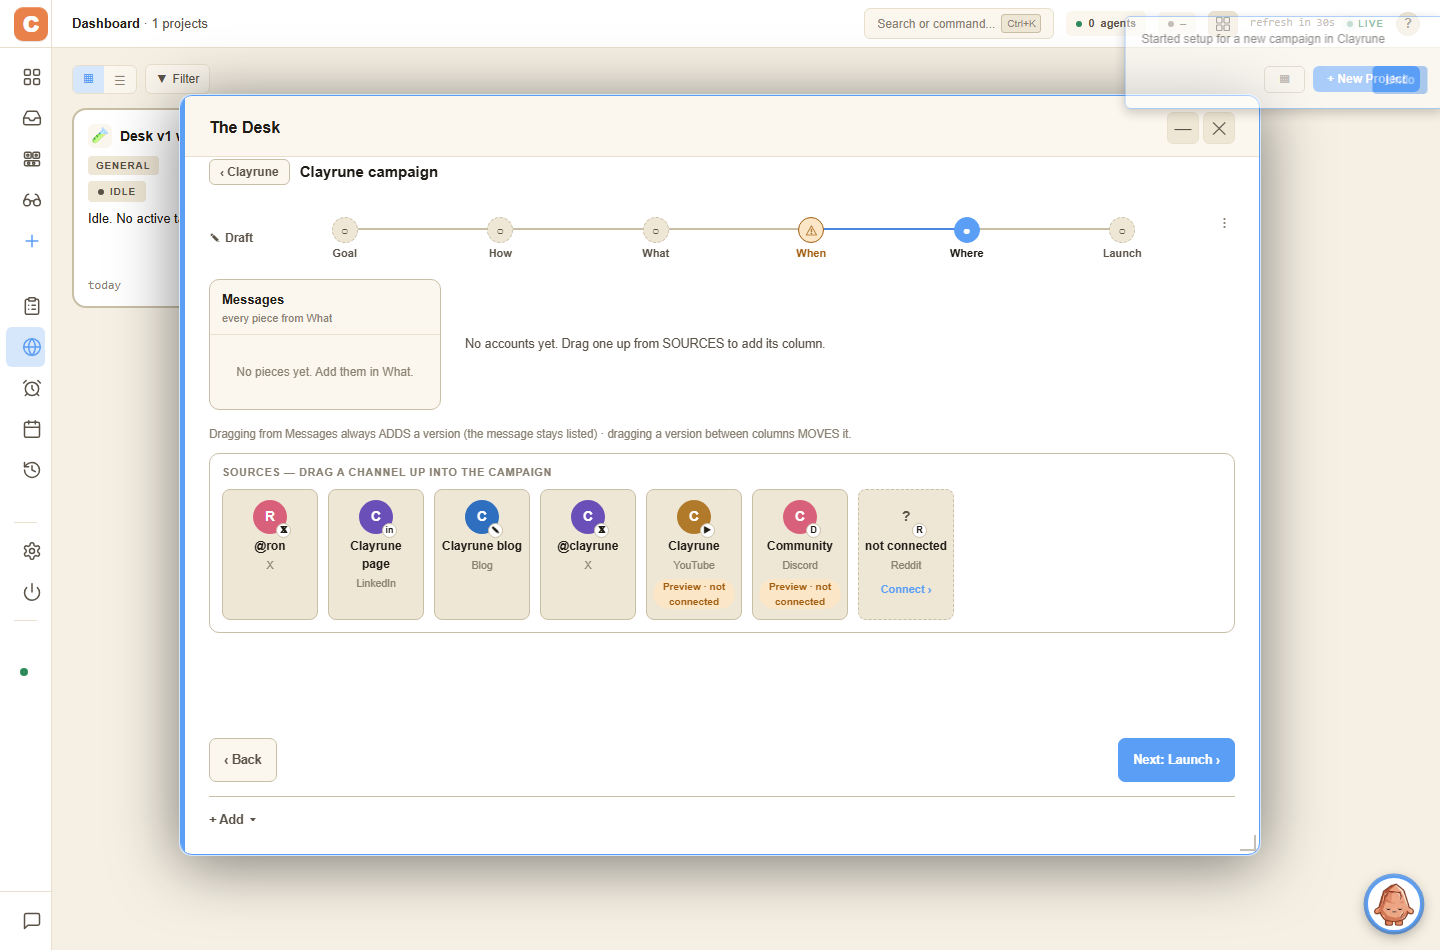
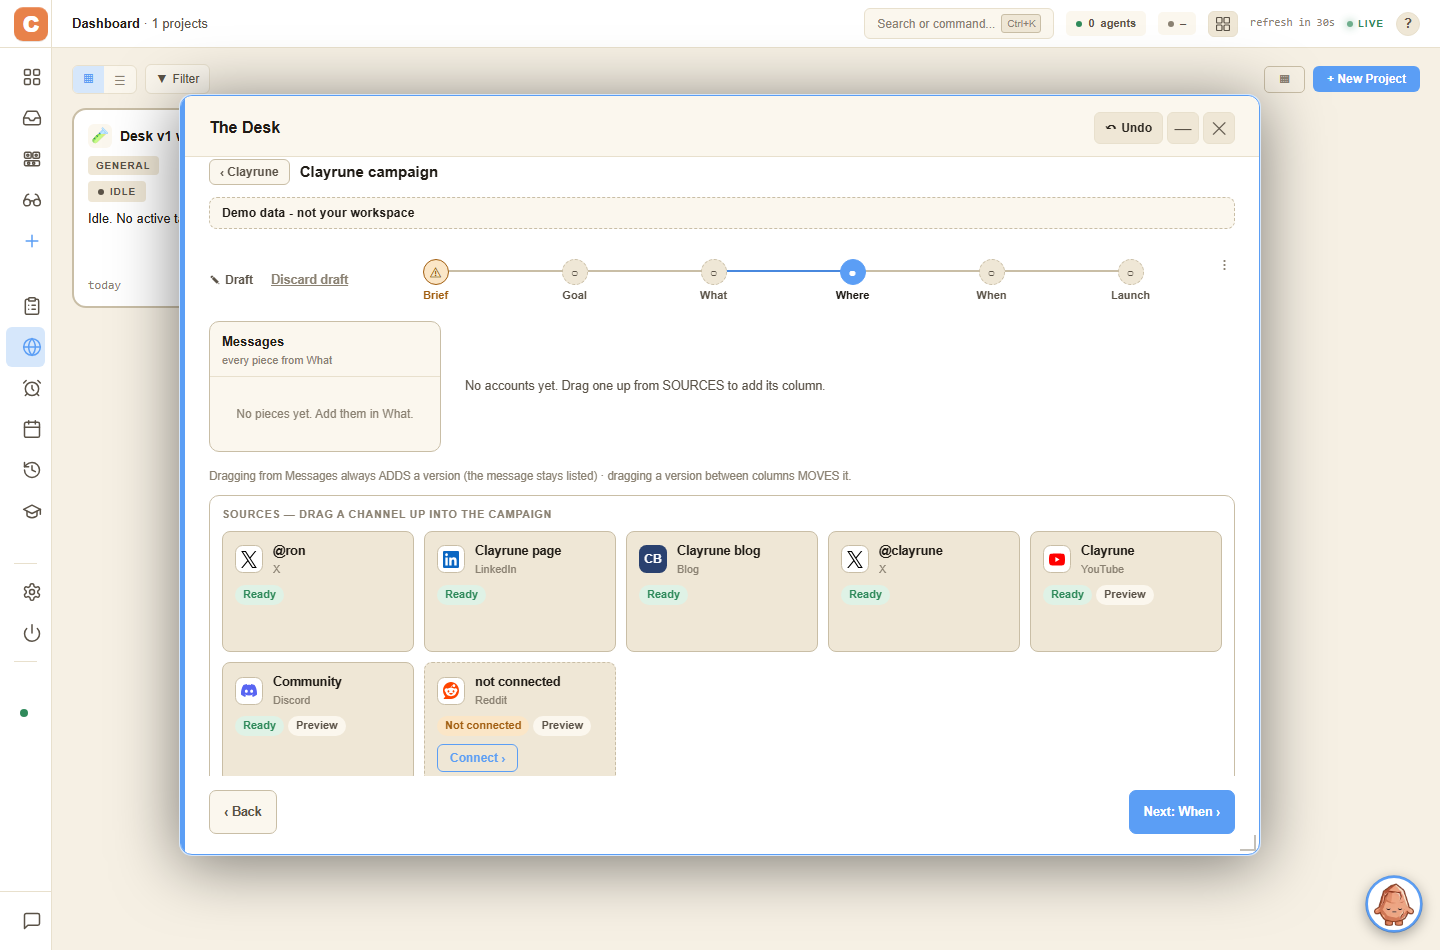
feat(desk): Where tray tiles and column headers wear the vendor marks
Equal-size source tiles in one grid (mark + name, status chip, clamped reason,
Connect pinned to one baseline); long handles and reasons ellipsise with the
full text on title. Tile renderer split into desk-v1-where-tiles.js; the letter
avatar and unicode glyph badge are gone.

diff --git a/static/js/desk-v1-where.js b/static/js/desk-v1-where.js
@@ -63,14 +63,16 @@
   function _restorable(state) { return _M18_STATES.has(state) ? state : 'needs_review'; }
 
   const PLATFORMS = {
-    x: { word: 'X', glyph: '𝕏' },
-    linkedin: { word: 'LinkedIn', glyph: 'in' },
-    youtube: { word: 'YouTube', glyph: '▶' },
-    discord: { word: 'Discord', glyph: 'D' },
-    reddit: { word: 'Reddit', glyph: 'R' },
-    blog: { word: 'Blog', glyph: '✎' },
+    x: { word: 'X' },
+    linkedin: { word: 'LinkedIn' },
+    youtube: { word: 'YouTube' },
+    discord: { word: 'Discord' },
+    reddit: { word: 'Reddit' },
+    blog: { word: 'Blog' },
+    instagram: { word: 'Instagram' },
+    tiktok: { word: 'TikTok' },
   };
-  function _platform(ch) { return (ch && PLATFORMS[ch.platform]) || { word: (ch && ch.platform) || '', glyph: '•' }; }
+  function _platform(ch) { return (ch && PLATFORMS[ch.platform]) || { word: (ch && ch.platform) || '' }; }
 
   // `<kind> → <platform format>` on a version card (frame 7b).
   const FORMATS = {
@@ -85,21 +87,9 @@
     return (byKind && ch && byKind[ch.platform]) || `${_platform(ch).word} post`.trim();
   }
 
-  // Avatar: first letter of the handle on a colour picked from a stable hash
-  // of the channel id, so one account keeps its colour across every surface.
-  const AVATAR_COLORS = ['#5b6ee1', '#d9607a', '#2f6fbf', '#c4503a', '#6b4fb8', '#3a9d8a', '#b07a2a'];
-  function _avatarColor(id) {
-    let h = 0;
-    for (let i = 0; i < String(id).length; i++) h = (h * 31 + String(id).charCodeAt(i)) >>> 0;
-    return AVATAR_COLORS[h % AVATAR_COLORS.length];
-  }
-  function _avatarHTML(ch) {
-    const m = String((ch && ch.identity) || '?').match(/[A-Za-z0-9]/);
-    const plat = _platform(ch);
-    return `<span class="desk-v1-where-avatar" style="background:${_avatarColor(ch ? ch.id : '')}" aria-hidden="true">` +
-      `<span class="desk-v1-where-avatar-letter">${esc((m ? m[0] : '?').toUpperCase())}</span>` +
-      `<span class="desk-v1-where-avatar-badge" data-platform="${esc(ch ? ch.platform : '')}">${esc(plat.glyph)}</span></span>`;
-  }
+  // The mark an account wears (column header and SOURCES tile alike) is the
+  // vendor logo from desk-v1-service-icons.js, built in desk-v1-where-tiles.js.
+  function _markHTML(ch) { return window.DeskV1WhereTiles.markHTML(ch); }
 
   // A version counts on the board while it is live and sits on a channel.
   function _isLive(v) { return !!v.channelId && v.state !== 'archived' && v.state !== 'skipped'; }
@@ -394,9 +384,9 @@
       : `<div class="desk-v1-where-colempty" data-where-colempty>Drag a message here to add its ${esc(plat.word)} version.</div>`;
     return `<section class="desk-v1-where-col pd-drop-zone" data-channel-id="${esc(ch.id)}" data-platform="${esc(ch.platform)}" aria-label="${esc(`${ch.identity} on ${plat.word}`)}">
       <header class="desk-v1-where-colhead">
-        ${_avatarHTML(ch)}
+        ${_markHTML(ch)}
         <div class="desk-v1-where-colname">
-          <div class="desk-v1-where-handle">${esc(ch.identity)}</div>
+          <div class="desk-v1-where-handle" title="${esc(ch.identity)}">${esc(ch.identity)}</div>
           <div class="desk-v1-where-plat">${esc(plat.word)}</div>
           ${_previewTag(ch)}
         </div>
@@ -407,44 +397,10 @@
     </section>`;
   }
 
-  function _sourceHTML(camp, ch) {
-    const plat = _platform(ch);
-    const used = (camp.plan.accounts || []).includes(ch.id);
-    return `<div class="desk-v1-where-source${used ? ' is-used' : ''}" role="button" tabindex="0" data-where-source data-channel-id="${esc(ch.id)}" data-platform="${esc(ch.platform)}"
-         aria-label="${esc(`${ch.identity} on ${plat.word}${used ? ', already on this campaign' : '. Press Enter to add its column'}`)}">
-      ${_avatarHTML(ch)}
-      <div class="desk-v1-where-source-handle">${esc(ch.identity)}</div>
-      <div class="desk-v1-where-source-plat">${esc(plat.word)}</div>
-      ${_previewTag(ch)}
-    </div>`;
-  }
-
-  // A live account carries `publish` (R1-W S5): the tile names the account and
-  // says why it cannot be used, the reason the server computed (no token in the
-  // vault, LinkedIn app review pending). A demo tile has neither and stays as it was.
-  function _offSourceHTML(ch) {
-    const plat = _platform(ch);
-    const pub = ch.publish || null;
-    return `<div class="desk-v1-where-source desk-v1-where-source-off" data-where-source-off data-channel-id="${esc(ch.id)}" data-platform="${esc(ch.platform)}"${pub && pub.reason ? ` title="${esc(pub.reason)}"` : ''}>
-      <span class="desk-v1-where-avatar desk-v1-where-avatar-off" aria-hidden="true"><span class="desk-v1-where-avatar-letter">?</span><span class="desk-v1-where-avatar-badge" data-platform="${esc(ch.platform)}">${esc(plat.glyph)}</span></span>
-      <div class="desk-v1-where-source-handle">${pub ? esc(ch.identity) : 'not connected'}</div>
-      <div class="desk-v1-where-source-plat">${esc(plat.word)}</div>
-      ${pub ? `<div class="desk-v1-where-source-reason" data-where-reason>Not connected${pub.reason ? `: ${esc(pub.reason)}` : ''}</div>` : ''}
-      <button type="button" class="desk-v1-where-connect" data-where-connect>Connect ›</button>
-    </div>`;
-  }
-
-  // A read-only account: same card shape as an off source, worded as Connections words it
-  // ("Read only"), with no Connect button and no drag handle: it is not a place to post.
-  function _readOnlySourceHTML(ch) {
-    const plat = _platform(ch);
-    return `<div class="desk-v1-where-source desk-v1-where-source-off" data-where-source-readonly data-channel-id="${esc(ch.id)}" data-platform="${esc(ch.platform)}" title="The Desk reads this account and does not publish there">
-      <span class="desk-v1-where-avatar desk-v1-where-avatar-off" aria-hidden="true"><span class="desk-v1-where-avatar-letter">?</span><span class="desk-v1-where-avatar-badge" data-platform="${esc(ch.platform)}">${esc(plat.glyph)}</span></span>
-      <div class="desk-v1-where-source-handle">${esc(ch.identity)}</div>
-      <div class="desk-v1-where-source-plat">${esc(plat.word)}</div>
-      <div class="desk-v1-where-source-reason" data-where-readonly>Read only</div>
-    </div>`;
-  }
+  // The three tile shapes live in desk-v1-where-tiles.js.
+  function _sourceHTML(camp, ch) { return window.DeskV1WhereTiles.sourceHTML(ch, _platform(ch), (camp.plan.accounts || []).includes(ch.id)); }
+  function _offSourceHTML(ch) { return window.DeskV1WhereTiles.offHTML(ch, _platform(ch)); }
+  function _readOnlySourceHTML(ch) { return window.DeskV1WhereTiles.readOnlyHTML(ch, _platform(ch)); }
 
   // R2-6's Suggest task can leave `how.suggested.where = {channelId, label}`:
   // shown here as a `? suggested` strip (the agent proposes, the user accepts —

diff --git a/static/css/desk-v1-where.css b/static/css/desk-v1-where.css
@@ -59,18 +59,6 @@
 .desk-v1-where-vtitle { font-size: 12.5px; font-weight: 700; color: var(--text); }
 .desk-v1-where-vformat { font-size: 11.5px; color: var(--text-dim); }
 
-/* account avatar + platform badge — a letter on a hashed colour, so the colour
-   is decoration and the handle beside it is what identifies the account. */
-.desk-v1-where-avatar {
-  position: relative; flex: 0 0 auto; display: inline-flex; align-items: center; justify-content: center;
-  width: 34px; height: 34px; border-radius: 50%; color: #fff; font-size: 14px; font-weight: 700;
-}
-.desk-v1-where-avatar-off { background: var(--surface3); color: var(--text-dim); }
-.desk-v1-where-avatar-badge {
-  position: absolute; right: -4px; bottom: -4px; min-width: 15px; height: 15px; padding: 0 2px;
-  border-radius: 8px; background: var(--surface); border: 1px solid var(--border2);
-  color: var(--text); font-size: 9px; font-weight: 700; line-height: 13px; text-align: center; box-sizing: border-box;
-}
 .desk-v1-where-preview {
   display: inline-block; margin-top: 2px; font-size: 10px; font-weight: 600; color: var(--amber-text);
   background: var(--amber-dim); border-radius: 999px; padding: 0 7px;
@@ -81,21 +69,6 @@
 .desk-v1-where-sources-title {
   font-size: 11px; font-weight: 700; letter-spacing: 0.05em; text-transform: uppercase; color: var(--text-faint); margin-bottom: 8px;
 }
-.desk-v1-where-sources-row { display: flex; flex-wrap: wrap; gap: 10px; }
-.desk-v1-where-source {
-  width: 96px; padding: 10px 6px; display: flex; flex-direction: column; align-items: center; gap: 3px; text-align: center;
-}
-.desk-v1-where-source.is-used { opacity: 0.55; }
-.desk-v1-where-source-off { cursor: default; border-style: dashed; }
-.desk-v1-where-source-handle { font-size: 12px; font-weight: 700; color: var(--text); word-break: break-word; }
-.desk-v1-where-source-plat { font-size: 10.5px; color: var(--text-faint); }
-.desk-v1-where-source-reason { font-size: 10.5px; line-height: 1.3; color: var(--amber-text); }
-.desk-v1-where-connect {
-  background: none; border: none; color: var(--accent); font-size: 11px; font-weight: 600; cursor: pointer;
-  font-family: inherit; padding: 4px 2px; min-height: 24px;
-}
-.desk-v1-where-connect:hover { text-decoration: underline; }
-
 .desk-v1-where-notice {
   background: var(--amber-dim); border: 1px solid var(--amber-text); border-radius: 8px;
   color: var(--amber-text); font-size: 12.5px; font-weight: 600; padding: 8px 12px;
@@ -113,8 +86,6 @@
      frame). Every card is already a 44px-tall target; the small controls get
      a full tap size here. */
   .desk-v1-where-colremove { width: 44px; height: 44px; font-size: 14px; }
-  .desk-v1-where-connect { min-height: 44px; }
-  .desk-v1-where-source { min-height: 44px; }
 }
 /* MC-977 mobile batch 2 (884 decision): the stacked board + compact tiles are
    for PHONE widths (<700px). From 700px (Fold inner screen, tablets) Where
@@ -138,35 +109,7 @@
   .desk-v1-where-board { flex-direction: column; align-items: stretch; overflow-x: visible; gap: 10px; }
   .desk-v1-where-msgs, .desk-v1-where-col { flex: 0 0 auto; width: auto; position: static; }
   .desk-v1-where-msglist { max-height: clamp(140px, 24vh, 220px); }
-
-  /* WH-2: the SOURCES palette was 7 tiles of 92x114-161 (2 per row) with 31 text
-     elements at 9-10.5px. Now two compact 44px+ rows-of-two: avatar left, handle
-     and platform stacked beside it, every label >= 11px. */
-  .desk-v1-where-sources-row { display: grid; grid-template-columns: repeat(2, minmax(0, 1fr)); gap: 8px; }
-  .desk-v1-where-source {
-    width: auto; min-width: 0; padding: 8px 10px;
-    display: grid; grid-template-columns: auto minmax(0, 1fr); column-gap: 8px; row-gap: 0;
-    align-items: center; text-align: left;
-  }
-  .desk-v1-where-source > .desk-v1-where-avatar { grid-row: 1 / span 2; }
-  .desk-v1-where-source-handle { font-size: 12px; overflow: hidden; text-overflow: ellipsis; white-space: nowrap; word-break: normal; }
-  .desk-v1-where-source > .desk-v1-where-preview,
-  .desk-v1-where-source > .desk-v1-where-connect { grid-column: 1 / -1; justify-self: start; }
-  .desk-v1-where-msg-kind, .desk-v1-where-pill, .desk-v1-where-source-plat, .desk-v1-where-plat, .desk-v1-where-preview { font-size: 11px; }
-  .desk-v1-where-avatar-badge { font-size: 10px; min-width: 16px; height: 16px; line-height: 14px; }
-  /* WH-3: the "Preview · not connected" pill wrapped to 2-3 lines inside a source
-     tile. One line, short form ("Preview") inside the tile; the full text stays on
-     its title and wherever the pill sits on its own (What's create head). */
-  .desk-v1-where-source .desk-v1-where-preview { white-space: nowrap; font-size: 0; padding: 0; }
-  .desk-v1-where-source .desk-v1-where-preview::after {
-    content: attr(data-short); font-size: 11px; display: inline-block; padding: 0 7px;
-  }
 }
-@media (min-width: 700px) and (max-width: 960px) {
-  .desk-v1-where-sources-row { display: grid; grid-template-columns: repeat(auto-fill, minmax(190px, 1fr)); gap: 8px; }
-  .desk-v1-where-source { width: auto; min-width: 0; }
-}
-
 /* Frame 7b shows the board at full width with no agent box beside it. */
 .desk-v1-camp-main:has(> .desk-v1-camp-tabbody[data-panel="where"]) > .desk-v1-camp-rightcol { display: none; }
 

diff --git a/static/js/desk-v1-where-tiles.js b/static/js/desk-v1-where-tiles.js
@@ -1,0 +1,90 @@
+// Desk v1 — the Where screen's SOURCES tiles and the mark on a column header
+// (Ron 2026-10-16: "logos and appearance must be redone with proper logos,
+// organized, no text running out of frames"). Split out of desk-v1-where.js (one
+// unit, one file): that module owns the board and its drags, this one owns how a
+// connected account LOOKS.
+//
+// Every tile is the same four-row card — mark + name, status chip, reason, action —
+// so tiles in one grid are the same size and the Connect button sits on one
+// baseline. Nothing is ever allowed to run out of its card: the name and the
+// reason are clipped (ellipsis / 2-line clamp) and the full text rides on `title`.
+// The mark comes from the one source of marks, desk-v1-service-icons.js (vendor
+// SVGs in static/desk-icons/); the account name stays beside it (UX-02).
+//
+// Window-bridged module, no `import` (ground rule 1). Pure string builders: the
+// caller (desk-v1-where.js) wires the drags and clicks onto the nodes it gets.
+(function () {
+  function esc(s) { return window.esc ? window.esc(s) : String(s == null ? '' : s).replace(/[&<>"']/g, (c) => ({ '&': '&amp;', '<': '&lt;', '>': '&gt;', '"': '&quot;', "'": '&#39;' }[c])); }
+
+  // The mark for an account. The account name rides along so a platform with no
+  // vendor logo (a blog) gets its monogram from the name, never a bare "?".
+  function markHTML(ch) {
+    const it = { platform: ch && ch.platform, brand: ch && ch.platform, name: (ch && (ch.identity || ch.label)) || '' };
+    return window.DeskV1ServiceIcons ? window.DeskV1ServiceIcons.markHTML(it, false) : '';
+  }
+
+  // tone: ok (usable) | warn (needs action) | dim (nothing to do here)
+  function chipHTML(word, tone, extra) {
+    return `<span class="desk-v1-where-chip" data-tone="${esc(tone)}"${extra || ''}>${esc(word)}</span>`;
+  }
+  function previewChipHTML(ch) {
+    return ch && ch.preview ? chipHTML('Preview', 'dim', ' data-preview data-short="Preview" title="Preview · not connected"') : '';
+  }
+
+  // One card. `cls`/`attrs` carry the caller's wiring hooks; `status` is the chip
+  // row, `reason` the optional clamped line, `action` the optional bottom button.
+  function _tile(ch, plat, o) {
+    const handle = o.handle != null ? o.handle : ch.identity;
+    return `<div class="desk-v1-where-source${o.cls || ''}" ${o.attrs} data-channel-id="${esc(ch.id)}" data-platform="${esc(ch.platform)}"${o.title ? ` title="${esc(o.title)}"` : ''}>
+      <div class="desk-v1-where-tile-head">
+        ${markHTML(ch)}
+        <div class="desk-v1-where-tile-id">
+          <div class="desk-v1-where-source-handle" title="${esc(handle)}">${esc(handle)}</div>
+          <div class="desk-v1-where-source-plat">${esc(plat.word)}</div>
+        </div>
+      </div>
+      <div class="desk-v1-where-tile-status">${o.status}${previewChipHTML(ch)}</div>
+      ${o.reason ? `<div class="desk-v1-where-source-reason" ${o.reasonAttr} title="${esc(o.reason)}">${esc(o.reason)}</div>` : ''}
+      <div class="desk-v1-where-tile-foot">${o.action || ''}</div>
+    </div>`;
+  }
+
+  // A connected account the campaign can use (draggable, Enter adds its column).
+  function sourceHTML(ch, plat, used) {
+    return _tile(ch, plat, {
+      cls: used ? ' is-used' : '',
+      attrs: `role="button" tabindex="0" data-where-source aria-label="${esc(`${ch.identity} on ${plat.word}${used ? ', already on this campaign' : '. Press Enter to add its column'}`)}"`,
+      status: used ? chipHTML('On campaign', 'dim') : chipHTML('Ready', 'ok'),
+    });
+  }
+
+  // A live account carries `publish` (R1-W S5): the tile names the account and says
+  // why it cannot be used, the reason the server computed (no token in the vault,
+  // LinkedIn app review pending). A demo tile has neither and stays as it was.
+  function offHTML(ch, plat) {
+    const pub = ch.publish || null;
+    return _tile(ch, plat, {
+      cls: ' desk-v1-where-source-off',
+      attrs: 'data-where-source-off',
+      handle: pub ? ch.identity : 'not connected',
+      title: pub && pub.reason ? pub.reason : '',
+      status: chipHTML('Not connected', 'warn'),
+      reason: pub && pub.reason ? pub.reason : '',
+      reasonAttr: 'data-where-reason',
+      action: '<button type="button" class="desk-v1-where-connect" data-where-connect>Connect ›</button>',
+    });
+  }
+
+  // A read-only account (the Desk reads it, never publishes there): same card, no
+  // Connect button and no drag handle, since it is not a place to post.
+  function readOnlyHTML(ch, plat) {
+    return _tile(ch, plat, {
+      cls: ' desk-v1-where-source-off',
+      attrs: 'data-where-source-readonly',
+      title: 'The Desk reads this account and does not publish there',
+      status: chipHTML('Read only', 'dim', ' data-where-readonly'),
+    });
+  }
+
+  window.DeskV1WhereTiles = { markHTML, sourceHTML, offHTML, readOnlyHTML, previewChipHTML };
+})();

diff --git a/static/css/desk-v1-where-tiles.css b/static/css/desk-v1-where-tiles.css
@@ -1,0 +1,51 @@
+/* Desk v1 — Where SOURCES tiles + the column-header mark (desk-v1-where-tiles.js). ONE grid of equal cards: mark + name, a status chip, the reason (clamped), the action pinned to the bottom edge so Connect sits on one baseline across tiles. Nothing may run out of its card: name and platform are ellipsised, the reason clamps to two lines, and the full text is on title. Load order is in static/index.html. */
+.desk-v1-where-sources-row { display: grid; grid-template-columns: repeat(auto-fill, minmax(172px, 1fr)); grid-auto-rows: 1fr; gap: 10px; }
+.desk-v1-where-source {
+  min-width: 0; padding: 10px 12px; display: flex; flex-direction: column; align-items: stretch; gap: 8px;
+  overflow: hidden; text-align: left;
+}
+.desk-v1-where-source.is-used { opacity: 0.6; }
+.desk-v1-where-source-off { cursor: default; border-style: dashed; }
+.desk-v1-where-tile-head { display: flex; align-items: center; gap: 10px; min-width: 0; }
+.desk-v1-where-tile-id { flex: 1 1 auto; min-width: 0; }
+.desk-v1-where-source-handle, .desk-v1-where-handle, .desk-v1-where-source-plat, .desk-v1-where-plat {
+  overflow: hidden; text-overflow: ellipsis; white-space: nowrap; min-width: 0;
+}
+.desk-v1-where-source-handle { font-size: 12.5px; font-weight: 700; color: var(--text); }
+.desk-v1-where-source-plat { font-size: 11px; color: var(--text-faint); }
+.desk-v1-where-tile-status { display: flex; flex-wrap: wrap; gap: 4px; min-height: 20px; }
+.desk-v1-where-chip {
+  display: inline-block; max-width: 100%; box-sizing: border-box; padding: 1px 8px; border-radius: 999px;
+  font-size: 11px; font-weight: 600; line-height: 16px; white-space: nowrap; overflow: hidden; text-overflow: ellipsis;
+  background: var(--surface2); color: var(--text-dim);
+}
+.desk-v1-where-chip[data-tone="ok"] { background: var(--green-dim); color: var(--green-text); }
+.desk-v1-where-chip[data-tone="warn"] { background: var(--amber-dim); color: var(--amber-text); }
+.desk-v1-where-source-reason {
+  font-size: 11px; line-height: 1.3; color: var(--amber-text);
+  display: -webkit-box; -webkit-box-orient: vertical; -webkit-line-clamp: 2; line-clamp: 2; overflow: hidden; overflow-wrap: anywhere;
+}
+/* The action row is always present (empty on a tile with no action) and pushed to the bottom, so every tile in a row is the same height. */
+.desk-v1-where-tile-foot { margin-top: auto; display: flex; min-height: 0; }
+.desk-v1-where-tile-foot:empty { display: none; }
+.desk-v1-where-connect {
+  background: none; border: 1px solid var(--accent); border-radius: 6px; color: var(--accent); font-size: 12px; font-weight: 600;
+  cursor: pointer; font-family: inherit; padding: 3px 12px; min-height: 28px; white-space: nowrap;
+}
+.desk-v1-where-connect:hover { background: var(--accent-dim); }
+/* Column header: the mark replaces the old letter avatar; the name block may shrink so a long handle ellipsises beside the ✕. */
+.desk-v1-where-colhead .desk-v1-svc-icon { --svc-icon-size: 32px; }
+.desk-v1-where-colname { overflow: hidden; }
+
+@media (max-width: 960px) {
+  .desk-v1-where-connect { min-height: 44px; }
+  .desk-v1-where-source { min-height: 44px; }
+  .desk-v1-where-chip, .desk-v1-where-preview { font-size: 11px; }
+}
+/* Phone: two tiles per row, so the 172px minimum can not hold three. */
+@media (max-width: 699px) {
+  .desk-v1-where-sources-row { grid-template-columns: repeat(2, minmax(0, 1fr)); gap: 8px; }
+  .desk-v1-where-source { padding: 8px 10px; }
+  .desk-v1-where-tile-head { gap: 8px; }
+  .desk-v1-where-connect { width: 100%; justify-content: center; }
+}

diff --git a/static/css/desk-v1-mobile-b2.css b/static/css/desk-v1-mobile-b2.css
@@ -133,18 +133,10 @@
   .desk-v1-eng-filters { display: grid; grid-template-columns: repeat(2, minmax(0, 1fr)); flex-direction: unset; }
 }
 
-/* Where source tiles (WH-2 follow-up): the handle was ellipsised ("Clayrune p…") and the
-   platform glyph badge sat at 10px. Handle may take two lines; badge 11px. */
-@media (max-width: 699px) {
-  .desk-v1-where-source-handle { white-space: normal; overflow-wrap: anywhere; line-height: 1.2; }
-  .desk-v1-where-avatar-badge { font-size: 11px; min-width: 17px; height: 17px; line-height: 15px; }
-}
-
 /* 884 Fold inner: the Where board keeps its desktop two-column shape from 700px,
    but the 10px / 10.5px desktop labels are below the 11px floor on a touch device. */
 @media (max-width: 960px) {
-  .desk-v1-where-msg-kind, .desk-v1-where-pill, .desk-v1-where-source-plat, .desk-v1-where-plat { font-size: 11px; }
-  .desk-v1-where-avatar-badge { font-size: 10px; min-width: 16px; height: 16px; line-height: 14px; }
+  .desk-v1-where-msg-kind, .desk-v1-where-pill, .desk-v1-where-plat { font-size: 11px; }
 }
 
 /* Draft delete discoverability (batch 2, Ron from phone): a ⋯ on Draft project

diff --git a/static/index.html b/static/index.html
@@ -294,6 +294,7 @@
 <link rel="stylesheet" href="/static/css/desk-v1-connections.css">
 <link rel="stylesheet" href="/static/css/desk-v1-connections-tiles.css">
 <link rel="stylesheet" href="/static/css/desk-v1-service-icons.css">
+<link rel="stylesheet" href="/static/css/desk-v1-where-tiles.css">
 <link rel="stylesheet" href="/static/css/desk-v1-connect-flow.css">
 <link rel="stylesheet" href="/static/css/desk-v1-connect-discover.css">
 <link rel="stylesheet" href="/static/css/desk-v1-connect-adapter.css">
@@ -4240,6 +4241,7 @@ window.addEventListener('beforeunload', () => {
 <script type="module" src="/static/js/desk-v1-review.js"></script>
 <script type="module" src="/static/js/desk-v1-calendar.js"></script>
 <script type="module" src="/static/js/desk-v1-how.js"></script>
+<script type="module" src="/static/js/desk-v1-where-tiles.js"></script>
 <script type="module" src="/static/js/desk-v1-where.js"></script>
 <script type="module" src="/static/js/desk-v1-what.js"></script>
 <script type="module" src="/static/js/desk-v1-video.js"></script>
